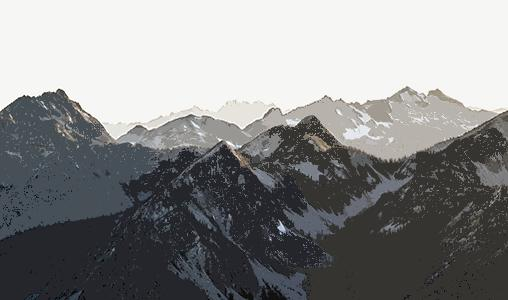
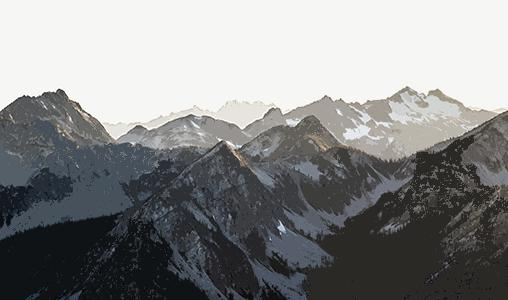
update mountains and radius

diff --git a/cutout.py b/cutout.py
@@ -147,5 +147,7 @@ if __name__ == '__main__':
 	time_start = time.time()
 	if (len(sys.argv) <= 3):
 		main(sys.argv[1], sys.argv[2])
-	else:
+	elif (len(sys.argv) <= 4):
 		main(sys.argv[1], sys.argv[2], treshold=int(sys.argv[3]))
+	else:
+		main(sys.argv[1], sys.argv[2], treshold=int(sys.argv[3]), radius=int(sys.argv[4]))
